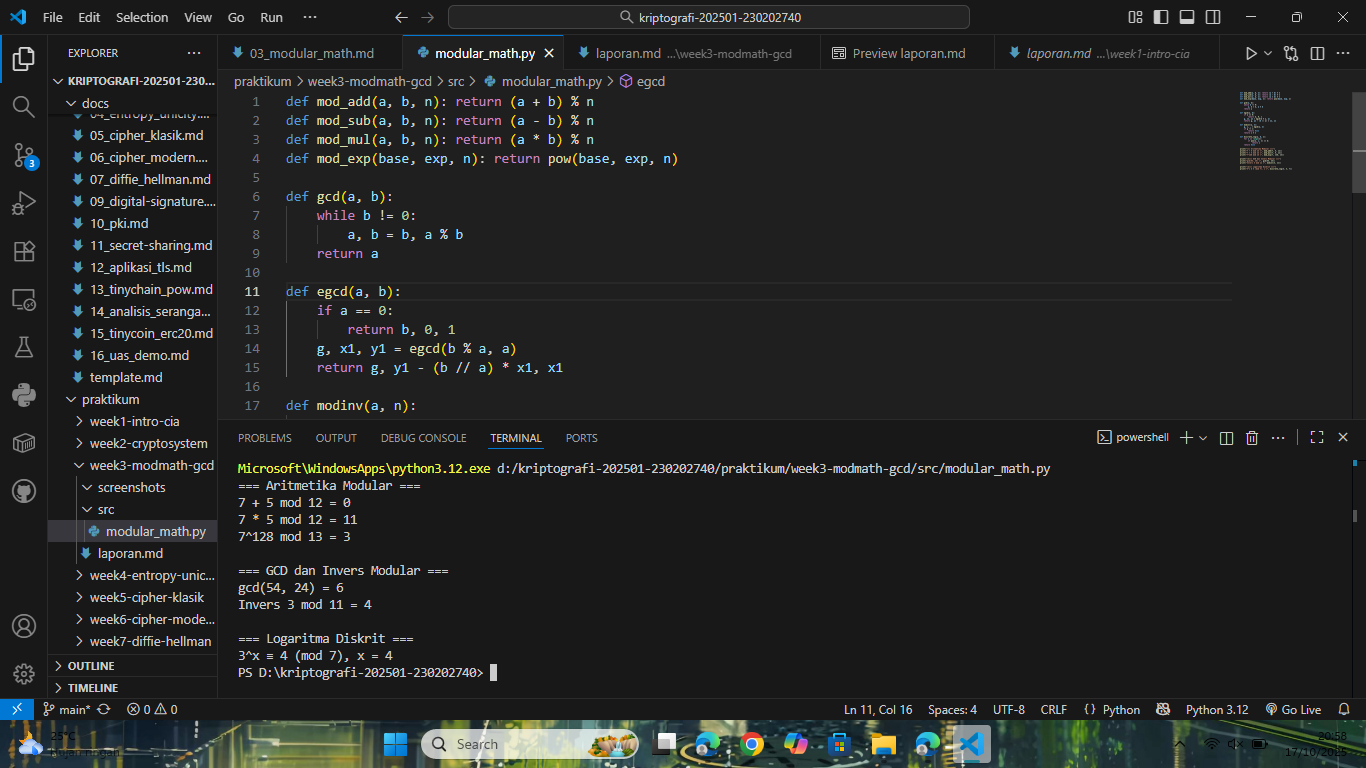
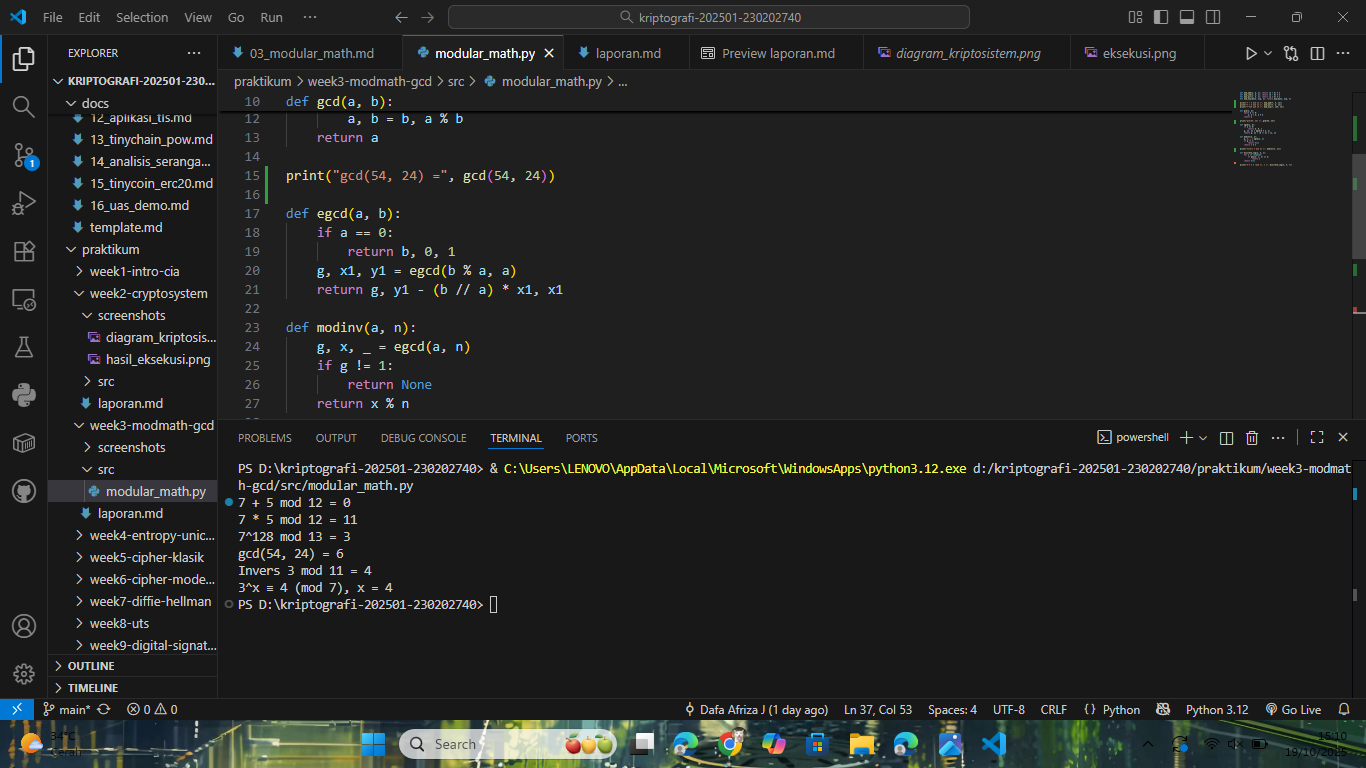
week3-modmath-gcd

diff --git a/praktikum/week3-modmath-gcd/src/modular_math.py b/praktikum/week3-modmath-gcd/src/modular_math.py
@@ -3,10 +3,16 @@ def mod_sub(a, b, n): return (a - b) % n
 def mod_mul(a, b, n): return (a * b) % n
 def mod_exp(base, exp, n): return pow(base, exp, n)
 
+print("7 + 5 mod 12 =", mod_add(7, 5, 12))
+print("7 * 5 mod 12 =", mod_mul(7, 5, 12))
+print("7^128 mod 13 =", mod_exp(7, 128, 13))
+
 def gcd(a, b):
     while b != 0:
         a, b = b, a % b
     return a
+
+print("gcd(54, 24) =", gcd(54, 24))
 
 def egcd(a, b):
     if a == 0:
@@ -20,20 +26,12 @@ def modinv(a, n):
         return None
     return x % n
 
+print("Invers 3 mod 11 =", modinv(3, 11))
+
 def discrete_log(a, b, n):
     for x in range(n):
         if pow(a, x, n) == b:
             return x
     return None
 
-print("=== Aritmetika Modular ===")
-print("7 + 5 mod 12 =", mod_add(7, 5, 12))
-print("7 * 5 mod 12 =", mod_mul(7, 5, 12))
-print("7^128 mod 13 =", mod_exp(7, 128, 13))
-
-print("\n=== GCD dan Invers Modular ===")
-print("gcd(54, 24) =", gcd(54, 24))
-print("Invers 3 mod 11 =", modinv(3, 11))
-
-print("\n=== Logaritma Diskrit ===")
 print("3^x ≡ 4 (mod 7), x =", discrete_log(3, 4, 7))
